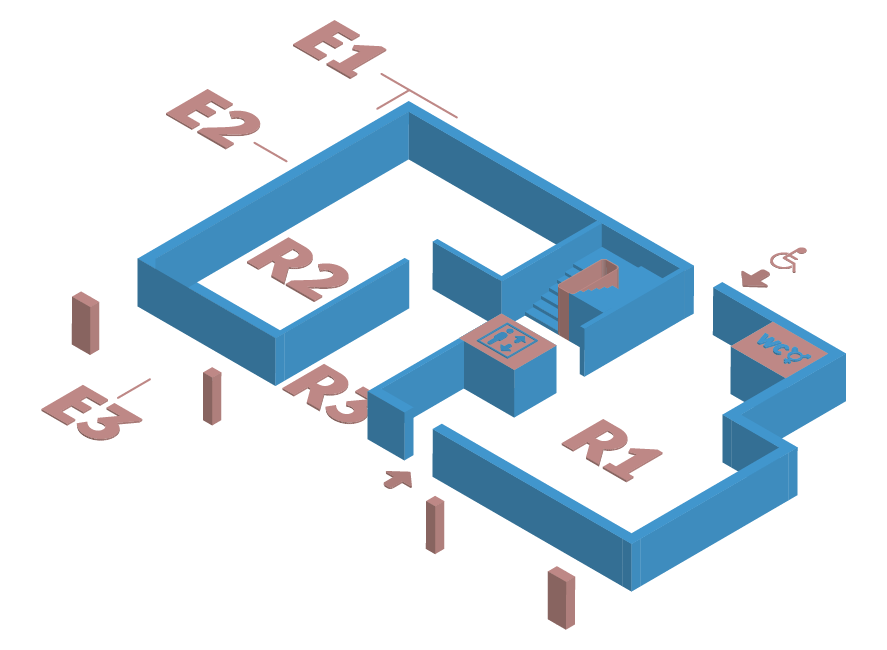
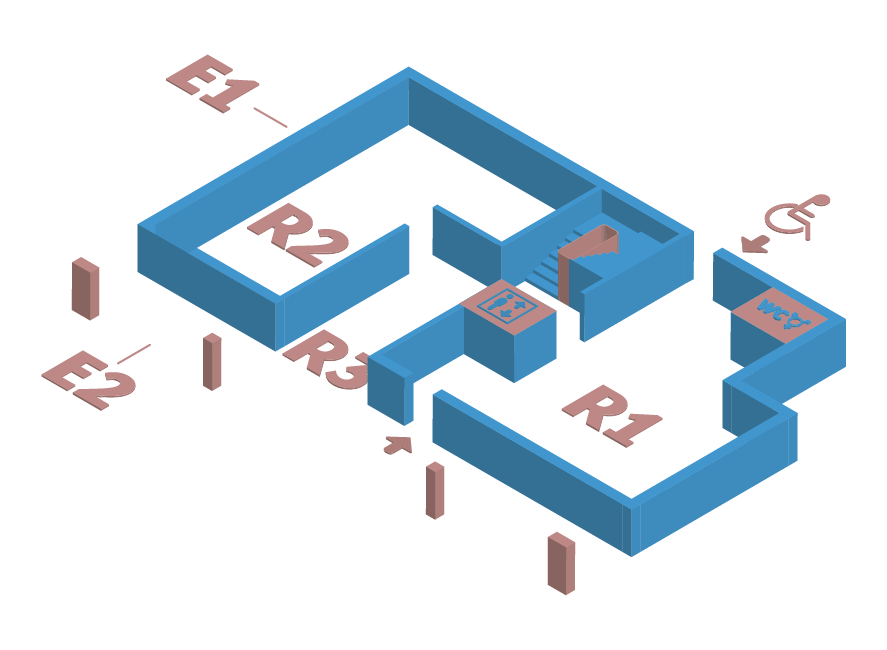
plan with some change

Changed region(s): [[0.1522, 0.0308, 0.9741, 0.9846], [0.0304, 0.4, 0.1522, 0.6769]]

diff --git a/batiment.html b/batiment.html
@@ -74,6 +74,10 @@ layout: pages
             <p class="title uppercase boxed text-alt">Domino</p>
             <p>Syn Liu</p>
         </a>
+        <a href="https://www.instagram.com/raph_de_r/?hl=fr">
+            <p class="title uppercase boxed text-alt">Ceux qui peuplent l'absence</p>
+            <p>Raph de R.</p>
+        </a>
 
         <p class="title uppercase text-white "><span class="boxed">32</span></p>
         <a href="{{ '/artistes/P05.html' | absolute_url }}">
@@ -107,12 +111,6 @@ layout: pages
         </a>
 
         <img class="picto--small picto--background img-responsive mrgt" src="{{ '/files/picto/wc.png' | absolute_url }}">
-
-        <p class="title uppercase text-white "><span class="boxed">22</span></p>
-        <a href="{{ '/artistes/P02.html' | absolute_url }}">
-            <p class="title uppercase boxed text-alt">Passé recomposé</p>
-            <p>Julie Bianchin, Océane Wannaz</p>
-        </a>
 
         <p class="title uppercase text-white "><span class="boxed">23</span></p>
         <a href="{{ '/artistes/P03.html' | absolute_url }}">
@@ -174,6 +172,27 @@ layout: pages
     </div>
     <!-- 1er -->
 
+    <!-- entresol -->
+    <div class="sm-w-1/1 md-w-1/2 lg-w-2/3 grid__item mrgt">
+        <img class="img-block" src="{{ '/files/plans/entresol.png' | absolute_url }}">
+    </div>
+
+    <div class="sm-w-1/1 md-w-1/2 lg-w-1/3 grid__item mrgt">
+        <hr class="mrgb">
+        <p class="title uppercase text-white "><span class="boxed">02</span></p>
+        <a href="{{ '/artistes/P14.html' | absolute_url }}">
+            <p class="title uppercase boxed text-alt">Passé recomposé</p>
+            <p>Julie Bianchin, Océane Wannaz</p>
+        </a>
+
+        <p class="title uppercase text-white "><span class="boxed">E3</span></p>
+        <a href="{{ '/artistes/P20.html' | absolute_url }}">
+            <p class="title uppercase boxed text-alt">Couleur «&nbsp;absence&nbsp;»</p>
+            <p>Tami Hopf</p>
+        </a>
+
+    </div>
+
     <!-- RDC -->
     <div class="sm-w-1/1 md-w-1/2 lg-w-2/3 grid__item mrgt">
         <img class="img-block" src="{{ '/files/plans/rez.png' | absolute_url }}">
@@ -200,18 +219,12 @@ layout: pages
         </a>
 
         <p class="title uppercase text-white "><span class="boxed">E1</span></p>
-        <a href="{{ '/artistes/P20.html' | absolute_url }}">
-            <p class="title uppercase boxed text-alt">Couleur «&nbsp;absence&nbsp;»</p>
-            <p>Tami Hopf</p>
-        </a>
-
-        <p class="title uppercase text-white "><span class="boxed">E2</span></p>
         <a href="{{ '/artistes/P35.html' | absolute_url }}">
             <p class="title uppercase boxed text-alt"></p>
             <p>Inso Mundo & Hormis</p>
         </a>
 
-        <p class="title uppercase text-white "><span class="boxed">E3</span></p>
+        <p class="title uppercase text-white "><span class="boxed">E2</span></p>
         <a href="{{ '/artistes/P05.html' | absolute_url }}">
             <p class="title uppercase boxed text-alt">Le temps d'une mue</p>
             <p>Lucie Schaeren</p>
